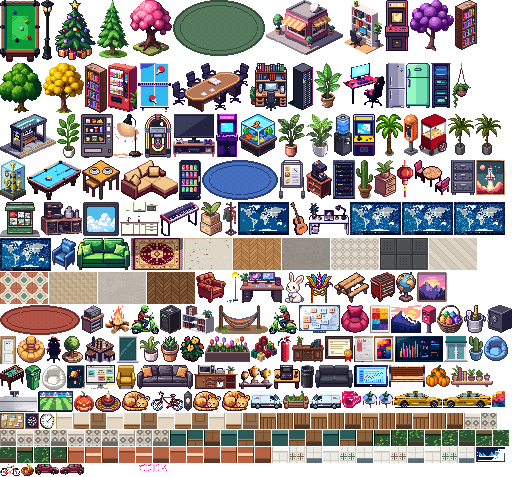
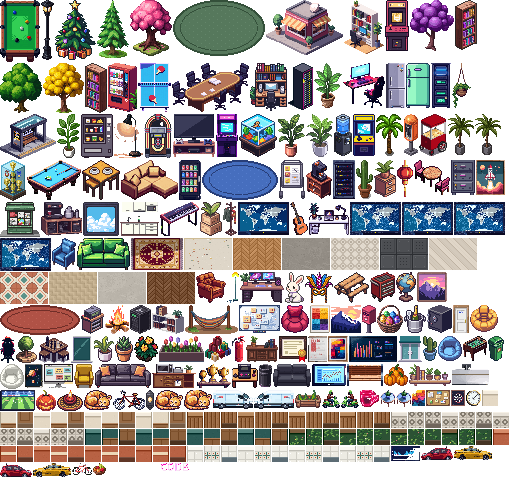
Carros na rua: escala proporcional, assentamento e sem sobreposição

diff --git a/test_mapa_carros.js b/test_mapa_carros.js
@@ -1,0 +1,100 @@
+"use strict";
+// Os carros da rua (static/mapa.js e static/efeitos.js): a escala dos quatro no atlas, o assentamento dentro de cada
+// faixa (as rodas no asfalto, o teto longe da calçada) e a folga entre dois veículos da mesma faixa, que nunca se
+// cobrem — nem quando um deles volta para fora da tela. Prédio e efeitos falsos, no molde do test_mapa_equipe.js.
+const assert = require("node:assert/strict");
+const fs = require("node:fs");
+const vm = require("node:vm");
+
+const ATLAS = JSON.parse(fs.readFileSync("static/tema/atlas.json", "utf8"));
+// a escala de cada veículo no atlas: uns dos outros e com a fachada (o hatch e o táxi na faixa de cima, a van e a
+// moto na de baixo, que são mais altas)
+const ESCALA = { carro1: [32, 14], carro2: [38, 14], carro3: [40, 19], carro4: [18, 18] };
+
+function carregar() {
+  const ctx = new Proxy({}, { get: (o, k) => (k === "measureText" ? t => ({ width: String(t).length * 4 }) : k in o ? o[k] : () => {}), set: (o, k, v) => { o[k] = v; return true; } });
+  const c = { console, getComputedStyle: () => ({ getPropertyValue: () => "" }), matchMedia: () => ({ matches: false }), document: { documentElement: {}, createElement: () => ({ getContext: () => ctx }) } };
+  c.window = c;
+  vm.runInNewContext(fs.readFileSync("static/mapa.js", "utf8") + "\n" + fs.readFileSync("static/efeitos.js", "utf8"), c);
+  return c;
+}
+
+const c = carregar();
+const predio = c.Mapa.montarPredio({ json: ATLAS, img: {} }, { empresa: "X" }, [], null);
+const ext = predio.externos, ruaY = ext.ruaY, ruaAlt = ext.ruaAlt;
+
+// ---------- o atlas: a escala dos quatro veículos
+for (const [nome, [w, h]] of Object.entries(ESCALA)) {
+  const s = ATLAS.sprites[nome];
+  assert.ok(s, `o atlas tem ${nome}`);
+  assert.deepEqual([s[2], s[3]], [w, h], `${nome}: ${w}x${h} no atlas`);
+  const e = ATLAS.sprites[nome + "_esq"];
+  assert.deepEqual([e[2], e[3]], [w, h], `${nome}_esq: o mesmo tamanho`);
+}
+
+// ---------- as faixas: os mais baixos na de cima (a do prédio), os mais altos na de baixo (a mais próxima)
+const carros = ext.carros;
+assert.equal(carros.length, 4, "os quatro veículos na rua");
+const altura = car => ATLAS.sprites[car.nome][3];
+const deCima = carros.filter(c => c.faixa === 1), deBaixo = carros.filter(c => c.faixa === 0);
+assert.equal(deCima.length, 2, "dois na faixa de cima");
+assert.equal(deBaixo.length, 2, "dois na faixa de baixo");
+assert.ok(Math.max(...deCima.map(altura)) <= Math.min(...deBaixo.map(altura)), "a faixa de cima tem os mais baixos");
+assert.equal(deCima.map(c => c.nome).sort().join(","), "carro1,carro2", "o hatch e o táxi na faixa de cima");
+assert.equal(deBaixo.map(c => c.nome).sort().join(","), "carro3,carro4", "a van e a moto na faixa de baixo");
+
+// ---------- o desenho: o que sai na tela (uma caixa por veículo, na ordem da lista)
+const desenhados = [];
+const ctxDesenho = { fillStyle: "", fillRect() {}, drawImage(img, sx, sy, sw, sh, dx, dy, dw, dh) { desenhados.push({ x: dx, y: dy, w: dw, h: dh }); } };
+c.Efeitos.iniciar(predio, { json: ATLAS, img: {} }, { empresa: "X" }, null);
+const rua = (dt, t) => { desenhados.length = 0; c.Efeitos.exterior(ctxDesenho, dt, t, { escuro: 0 }); return desenhados.slice(); };
+// o desenho de cada veículo é a caixa da sua faixa: as rodas assentam no asfalto e o teto não sobe até a calçada
+const assentado = (caixa, faixa) => {
+  assert.ok(caixa.y >= ruaY, `o teto não invade a calçada (${caixa.y} < ${ruaY})`);
+  assert.ok(caixa.y + caixa.h - 1 <= ruaY + ruaAlt - 1, "as rodas dentro do asfalto");
+  if (faixa === 1) assert.ok(caixa.y + caixa.h - 1 < ruaY + ruaAlt / 2, "as rodas antes da divisória");
+  else assert.ok(caixa.y + caixa.h - 1 >= ruaY + ruaAlt / 2, "as rodas depois da divisória");
+};
+// a folga entre dois veículos da mesma faixa: 120 px livres de caixa a caixa (de borda a borda)
+const folga = (a, b) => { const [esq, dir] = a.x <= b.x ? [a, b] : [b, a]; return dir.x - (esq.x + esq.w); };
+const confereFolga = (caixas, cars) => {
+  for (let i = 0; i < cars.length; i++) for (let j = i + 1; j < cars.length; j++) {
+    if (cars[i].faixa !== cars[j].faixa) continue;
+    const g = folga(caixas[i], caixas[j]);
+    assert.ok(g >= 120, `${cars[i].nome} e ${cars[j].nome}: ${Math.round(g)} px de folga`);
+  }
+};
+
+// o primeiro quadro: tudo no lugar
+let caixas = rua(0.05, 0);
+assert.equal(caixas.length, 4, "quatro veículos desenhados");
+caixas.forEach((caixa, i) => assentado(caixa, carros[i].faixa));
+confereFolga(caixas, carros);
+for (let i = 0; i < carros.length; i++) assert.equal(caixas[i].w, ESCALA[carros[i].nome][0], `${carros[i].nome}: o tamanho do desenho`);
+for (const car of carros) {
+  assert.ok(car.farol, `${car.nome}: tem farol`);
+  const naFrente = car.faixa ? car.farol.x <= car.x + 2 : car.farol.x >= car.x + ESCALA[car.nome][0] - 2;
+  assert.ok(naFrente, `${car.nome}: o farol na frente`);
+}
+
+// dois minutos de rua: os carros saem da tela e voltam, e nunca se cobrem
+for (let i = 1; i <= 2400; i++) {
+  const agora = rua(0.05, i * 0.05);
+  agora.forEach((caixa, j) => assentado(caixa, carros[j].faixa));
+  confereFolga(agora, carros);
+}
+
+// ---------- a volta para fora da tela: o que sai volta longe do outro da mesma faixa, de qualquer jeito que o outro
+// esteja na rua
+for (const [i, car] of carros.entries()) {
+  const outro = carros.find((o, j) => j !== i && o.faixa === car.faixa);
+  for (let x = -200; x <= predio.W + 200; x += 23) {
+    outro.x = x;
+    car.x = car.faixa ? -200 : predio.W + 200;   // o que sai da tela pela ponta
+    const agora = rua(0.05, 0);
+    agora.forEach((caixa, j) => assentado(caixa, carros[j].faixa));
+    confereFolga(agora, carros);
+  }
+}
+
+console.log("test_mapa_carros.js: ok");

diff --git a/static/index.html b/static/index.html
@@ -11,10 +11,10 @@
   <meta name="theme-color" content="#0f0f0e">
   <meta name="mobile-web-app-capable" content="yes">
   <meta name="apple-mobile-web-app-status-bar-style" content="black">
-  <link rel="stylesheet" href="estilo.css?v=138">
-  <link rel="stylesheet" href="chat_sala.css?v=138">
-  <link rel="stylesheet" href="reunioes.css?v=138">
-  <link rel="stylesheet" href="linha_tempo.css?v=138">
+  <link rel="stylesheet" href="estilo.css?v=139">
+  <link rel="stylesheet" href="chat_sala.css?v=139">
+  <link rel="stylesheet" href="reunioes.css?v=139">
+  <link rel="stylesheet" href="linha_tempo.css?v=139">
 </head>
 <body>
   <a class="pular" href="#principal">Ir para o conteúdo</a>
@@ -824,36 +824,36 @@
       </div>
     </div>
   </dialog>
-  <script src="abertura.js?v=138"></script>
-  <script src="avatar.js?v=138"></script>
-  <script src="mapa.js?v=138"></script>
-  <script src="expediente.js?v=138"></script>
-  <script src="vida.js?v=138"></script>
-  <script src="apresentacao.js?v=138"></script>
-  <script src="sprites.js?v=138"></script>
-  <script src="ponte.js?v=138"></script>
-  <script src="zeladoria.js?v=138"></script>
-  <script src="som.js?v=138"></script>
-  <script src="radio.js?v=138"></script>
-  <script src="ceu.js?v=138"></script>
-  <script src="clima.js?v=138"></script>
-  <script src="festas.js?v=138"></script>
-  <script src="simular.js?v=138"></script>
-  <script src="efeitos.js?v=138"></script>
-  <script src="brincar.js?v=138"></script>
-  <script src="tv.js?v=138"></script>
-  <script src="jornal.js?v=138"></script>
-  <script src="novidades.js?v=138"></script>
-  <script src="timelapse.js?v=138"></script>
-  <script src="avisar.js?v=138"></script>
-  <script src="resposta_rapida.js?v=138"></script>
-  <script src="linha_tempo.js?v=138"></script>
-  <script src="reunioes.js?v=138"></script>
-  <script src="times_auto.js?v=138"></script>
-  <script src="app.js?v=138"></script>
-  <script src="personalizar.js?v=138"></script>
-  <script src="ajustes.js?v=138"></script>
-  <script src="assistente.js?v=138"></script>
-  <script src="chat_sala.js?v=138"></script>
+  <script src="abertura.js?v=139"></script>
+  <script src="avatar.js?v=139"></script>
+  <script src="mapa.js?v=139"></script>
+  <script src="expediente.js?v=139"></script>
+  <script src="vida.js?v=139"></script>
+  <script src="apresentacao.js?v=139"></script>
+  <script src="sprites.js?v=139"></script>
+  <script src="ponte.js?v=139"></script>
+  <script src="zeladoria.js?v=139"></script>
+  <script src="som.js?v=139"></script>
+  <script src="radio.js?v=139"></script>
+  <script src="ceu.js?v=139"></script>
+  <script src="clima.js?v=139"></script>
+  <script src="festas.js?v=139"></script>
+  <script src="simular.js?v=139"></script>
+  <script src="efeitos.js?v=139"></script>
+  <script src="brincar.js?v=139"></script>
+  <script src="tv.js?v=139"></script>
+  <script src="jornal.js?v=139"></script>
+  <script src="novidades.js?v=139"></script>
+  <script src="timelapse.js?v=139"></script>
+  <script src="avisar.js?v=139"></script>
+  <script src="resposta_rapida.js?v=139"></script>
+  <script src="linha_tempo.js?v=139"></script>
+  <script src="reunioes.js?v=139"></script>
+  <script src="times_auto.js?v=139"></script>
+  <script src="app.js?v=139"></script>
+  <script src="personalizar.js?v=139"></script>
+  <script src="ajustes.js?v=139"></script>
+  <script src="assistente.js?v=139"></script>
+  <script src="chat_sala.js?v=139"></script>
 </body>
 </html>

diff --git a/static/mapa.js b/static/mapa.js
@@ -16,6 +16,7 @@ const CORREDOR_H = 3;
 const MX = 3, MY = 2;          // área externa: laterais e topo (em tiles); embaixo, fachada, calçada e rua (em px, abaixo)
 const FACHADA = 32;  // px: a frente do prédio vista de frente, embaixo da planta (Firmópolis); empurra a rua para baixo
 const CALCADA = 24, RUA_ALT = 30;   // px: a calçada da rua e a faixa de asfalto, enxutas (o prédio é o assunto)
+const FOLGA_CARRO = 120;   // px: distância livre entre dois veículos da mesma faixa (nunca se cobrem)
 const ruaY = p => p.y + p.h + FACHADA + CALCADA + 3;   // topo do asfalto (p: o retângulo do prédio)
 const MAX_FILEIRA = 6;         // salas por fileira, no máximo; passou, abre outra fileira (e outro corredor)
 const CON_W = 3;               // tiles: o corredor de ligação, à esquerda, que desce do corredor principal até os outros
@@ -1482,7 +1483,7 @@ function pintarFachada(c, atlas, p, r) {
 const arandelas = p => { const porta = Math.round(p.x + p.w / 2); return [porta - 18, porta + 18].map(x => ({ x, y: p.y + p.h + 8 })); };
 
 function montarExterior(atlas, obj0, W, H, p, marca, portaY) {
-  const r = rng(marca ^ 11), ext = { carros: [], postes: [], ruaY: ruaY(p), ruaAlt: RUA_ALT };
+  const r = rng(marca ^ 11), ext = { carros: [], postes: [], ruaY: ruaY(p), ruaAlt: RUA_ALT, folga: FOLGA_CARRO };
   const tem = n => !!sprite(atlas, n);
   // planta sai espelhada metade das vezes; fora: balança com o vento do clima (efeitos.js). Sem árvore enfeitando o
   // topo nem a rua: a cor do mapa vem dos times
@@ -1506,9 +1507,27 @@ function montarExterior(atlas, obj0, W, H, p, marca, portaY) {
     const x = p.x + 180 + (i + 0.2 + r() * 0.6) * ((W - p.x - 200) / vagasRua);
     obj(n, x, n === "banco" ? meioFio - 2 : meioFio, true);
   }
-  // carros passando
+  // carros passando: os mais baixos na faixa de cima (a do prédio, que vai para a esquerda) e os mais altos na de baixo
+  // (a mais próxima, que vai para a direita). A lista sai na ordem de desenho, então a faixa de baixo passa na frente.
   const carros = ["carro1", "carro2", "carro3", "carro4"].filter(tem);
-  for (let i = 0; i < carros.length; i++) ext.carros.push({ nome: carros[i], x: (W / carros.length) * i + r() * 60, faixa: i % 2, vel: 18 + r() * 22 });
+  const medida = n => { const s = sprite(atlas, n); return s ? [s[2], s[3]] : [40, 14]; };
+  const metade = Math.ceil(carros.length / 2);
+  const porAltura = [...carros].sort((a, b) => medida(a)[1] - medida(b)[1]);
+  for (const [faixa, lista] of [[1, porAltura.slice(0, metade)], [0, porAltura.slice(metade)]]) {
+    const passo = W / lista.length;
+    // o sorteio de cada carro cabe na folga: entre dois da mesma faixa ficam 120 px livres de caixa a caixa
+    const folgas = lista.map((n, i) => {
+      const w = medida(n)[0];
+      let f = Infinity;
+      if (i > 0) f = Math.min(f, passo - medida(lista[i - 1])[0] / 2 - w / 2 - FOLGA_CARRO);
+      if (i + 1 < lista.length) f = Math.min(f, passo - w / 2 - medida(lista[i + 1])[0] / 2 - FOLGA_CARRO);
+      return Math.max(0, Math.min(30, f / 2));
+    });
+    for (let i = 0; i < lista.length; i++) {
+      const w = medida(lista[i])[0];
+      ext.carros.push({ nome: lista[i], x: Math.round(passo * (i + 0.5) - w / 2 + (r() * 2 - 1) * folgas[i]), faixa, vel: 18 + r() * 22 });
+    }
+  }
   return ext;
 }
 

diff --git a/static/efeitos.js b/static/efeitos.js
@@ -28,6 +28,22 @@ const Efeitos = (() => {
   }
 
   // ---------------- rua
+  // a base de cada faixa (onde as rodas assentam no asfalto): a de cima é a do prédio (vai para a esquerda) e a de
+  // baixo é a mais próxima (vai para a direita). O farol fica na altura do veículo (a moto tem a luz no guidão).
+  const FAROL = { carro1: 0.30, carro2: 0.30, carro3: 0.30, carro4: 0.58 };
+  // o carro que volta para fora da tela entra longe do outro da mesma faixa: nunca em cima dele
+  function entra(car, e, lado) {
+    const s = tam(car.nome) || [0, 0, 40, 14], w = s[2], folga = e.folga || 120;
+    const outro = e.carros.find(o => o !== car && o.faixa === car.faixa);
+    const sorteio = Math.random() * 220;
+    let x = lado < 0 ? -60 - sorteio : P.W + 40 + sorteio;
+    if (outro) {
+      const so = tam(outro.nome) || [0, 0, 40, 14];
+      // o que entra fica atrás do outro, na direção em que anda
+      x = lado < 0 ? Math.min(x, outro.x - folga - w) : Math.max(x, outro.x + so[2] + folga);
+    }
+    return x;
+  }
   function exterior(c, dt, t, ceu) {
     const e = P.externos; if (!e) return;
     for (const car of e.carros) {
@@ -35,12 +51,12 @@ const Efeitos = (() => {
       if (!s) continue;
       car.x += dir * car.vel * dt;
       car.vel = car.faixa ? 26 : 34;   // cada faixa anda num ritmo só: ninguém atravessa o carro da frente
-      if (dir > 0 && car.x > P.W + 40) car.x = -60 - Math.random() * 260;
-      if (dir < 0 && car.x < -60) car.x = P.W + 40 + Math.random() * 260;
-      const y = e.ruaY + (car.faixa ? e.ruaAlt / 2 - 2 : e.ruaAlt - 3) - s[3];   // cada faixa dentro do asfalto
+      if (dir > 0 && car.x > P.W + 40) car.x = entra(car, e, -1);
+      if (dir < 0 && car.x < -60) car.x = entra(car, e, 1);
+      const y = e.ruaY + (car.faixa ? e.ruaAlt / 2 - 1 : e.ruaAlt - 3) - s[3];   // as rodas assentam no asfalto
       c.fillStyle = "rgba(0,0,0,.25)"; c.fillRect(car.x + 2, y + s[3] - 2, s[2] - 4, 3);
       spr(c, tam(nome) ? nome : car.nome, car.x, y);
-      car.farol = { x: dir > 0 ? car.x + s[2] : car.x, y: y + s[3] - 6, dir };
+      car.farol = { x: dir > 0 ? car.x + s[2] : car.x, y: y + s[3] - Math.round(s[3] * (FAROL[car.nome] || 0.3)), dir };
     }
   }
 

diff --git a/ferramentas/montar_tema.py b/ferramentas/montar_tema.py
@@ -47,7 +47,6 @@ ESCOLHA = {
     "arvore_natal": "arvore_natal_1", "presentes": "presentes_1", "abobora": "abobora_1", "abobora2": "abobora_2",
     "ovos": "ovos_1", "coelho": "coelho_1", "lanterna": "lanterna_china_1", "fogueira": "fogueira_1",
     "champanhe": "champanhe_1", "mascara": "mascara_1", "diwali": "diwali_1", "arvore3": "pinheiro_1",
-    "carro1": "carro_4", "carro2": "carro_5", "carro3": "carro_3", "carro4": "carro_6",
     # salas por tipo de time: Ops, Gabinete e times comuns
     "extintor": "extintor_1", "cabideiro": "cabideiro_1", "sofa_cinza": "sofa_cinza_2", "aparador": "aparador_2",
     "cafeteira": "cafeteira_2", "rack_rede": "rack_rede_2", "nobreak": "nobreak_1", "carrinho_ferramentas": "carrinho_ferramentas_1",
@@ -65,6 +64,16 @@ ESCOLHA = {
     "fachada_floreira": "fachada/floreira",
     # a porta do banheiro no fim do corredor (Firmópolis): a fila dos terminais
     "banheiro_porta": "banheiro/porta_1",
+}
+
+# Os veículos da rua, com a escala uns dos outros e com a fachada: o hatch e o táxi (os mais baixos) na faixa de
+# cima, a van e a moto (as mais altas) na de baixo. O rodapé da sombra que os arquivos trouxeram é cortado para as
+# rodas ficarem na base do desenho (a sombra a rua desenha por baixo).
+VEICULOS = {  # nome no mapa -> (arquivo, largura, altura, linhas de sombra no rodapé)
+    "carro1": ("bairro/carro", 32, 14, 2),   # hatch vermelho: vista lateral limpa, o melhor dos quatro
+    "carro2": ("carro_5", 38, 14, 1),        # táxi amarelo
+    "carro3": ("carro_3", 40, 19, 0),        # van branca: a mais comprida e a mais alta, como van de verdade
+    "carro4": ("carro_6", 18, 18, 0),        # moto com o piloto: menor que qualquer carro
 }
 
 T = 16
@@ -345,6 +354,15 @@ def main():
             print("faltando:", arq)
     if "pufe_azul" in pecas:
         pecas["pufe_branco"] = recolorir(pecas["pufe_azul"])
+    # os veículos da rua: a escala de cada um, sem a sombra do rodapé e sem suavizar (pixel art nítida)
+    for nome, (arq, w, h, rodape) in VEICULOS.items():
+        if not os.path.exists(os.path.join(ORIGEM, arq + ".png")):
+            print("faltando:", arq)
+            continue
+        im = recorte(arq)
+        if rodape:
+            im = im.crop((0, 0, im.width, im.height - rodape))
+        pecas[nome] = im.resize((w, h), Image.NEAREST)
     # hatch, táxi e van foram gerados virados para a esquerda (lanterna traseira à direita):
     # todos os veículos ficam virados para a direita; a moto já nasceu assim
     for n in ("carro1", "carro2", "carro3"):
